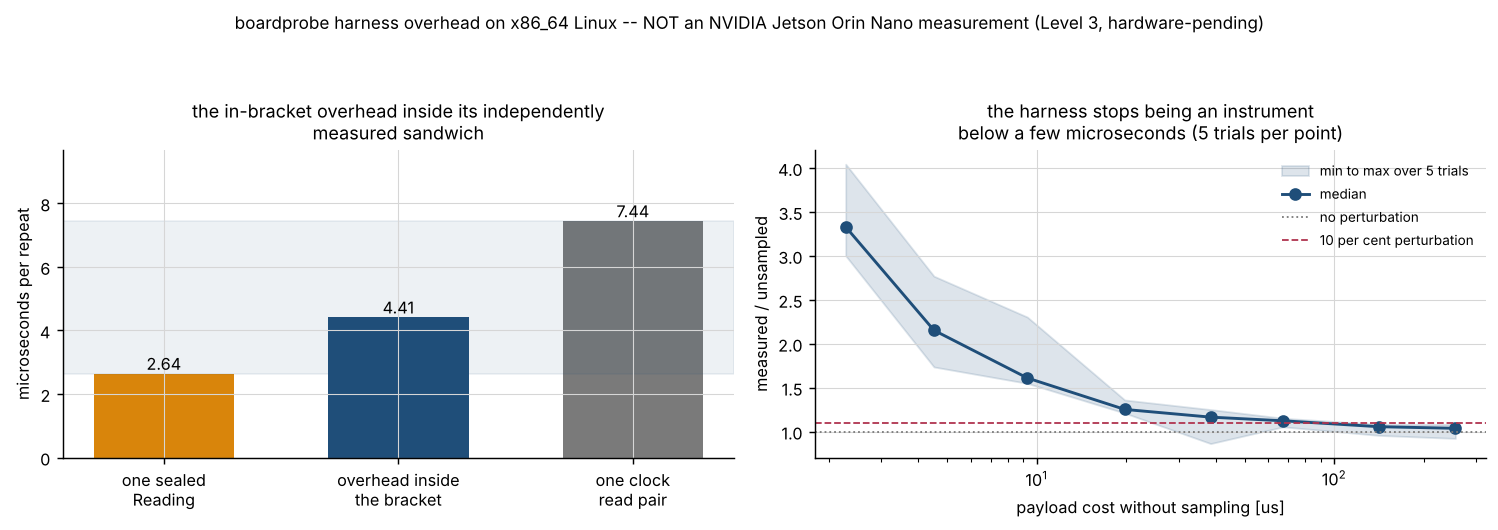
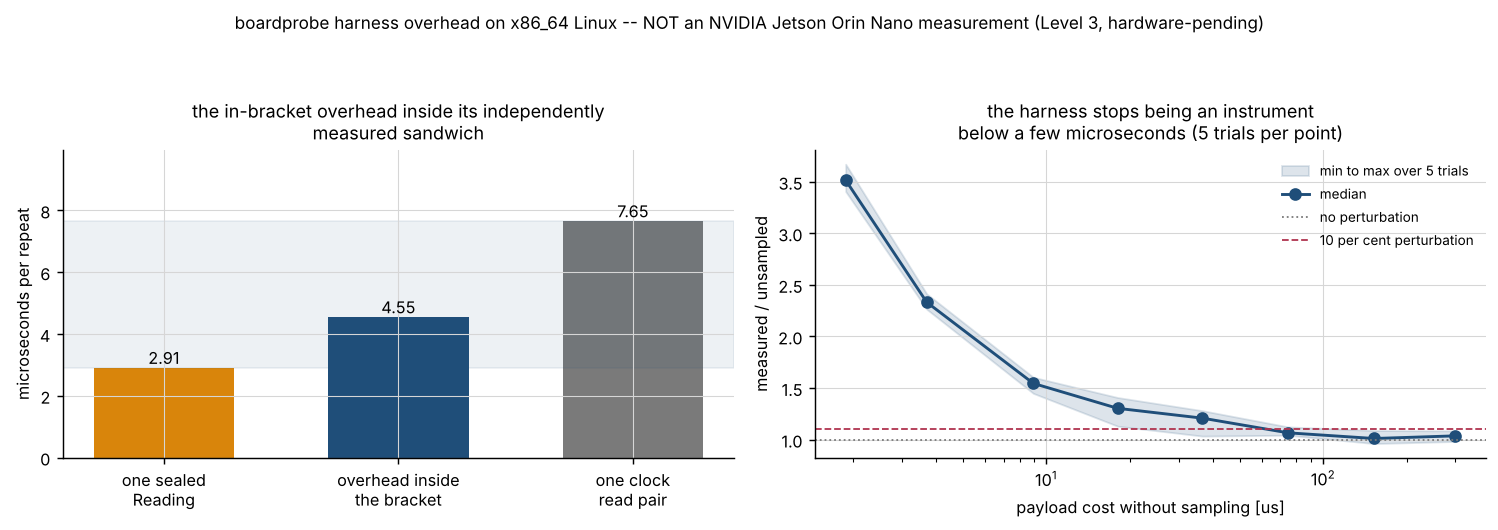
P095: the coordinator's corrections, each marked rather than overwritten
Re-ran every validation script over the committed tree, as ADR-010 requires,
and corrected what had moved. The corrections are recorded in a Corrections
section in both README.md and validation/VALIDATION.md, with the earlier
values kept beside the new ones.

TWO THINGS MOVED AND ONE OF THEM IS A RESULT.

(1) Every microsecond figure was requoted, and the spread is the finding.
Three independent runs of the in-bracket overhead on this host returned
4.348, 3.470 and 4.546 us - 31 per cent, same code, same machine, different
moments on a shared two-core container. Every verdict survived it: both
sandwich bounds held 7 of 7 in both runs and the structural inequality held
every time, because the check asserts a hit rate over trials rather than a
value. Any single microsecond figure in this product is a sample, and that
is now stated where the figures are quoted.

(2) The tracked-file check is real now that the product is committed: 78
tracked files examined, 0 offenders. The build agent reported it as
STRUCTURALLY UNMEASURABLE, which was the correct call - its tree is
uncommitted, git ls-files returns nothing, and a check over nothing reports
a vacuous PASS. This is the THIRD consecutive session in which committing
the product made a vacuous or unmeasurable claim real, so it is a property
of the build order and not an incident. The named-check count falls 122 to
121 for the same reason: the measurable branch replaces two fixture
gitignore sub-checks with the one real check.
[…]

diff --git a/products/P095/src/boardprobe/harness.py b/products/P095/src/boardprobe/harness.py
@@ -188,7 +188,7 @@ def benchmark(
     platform: PlatformAttestation | None = None,
     clock_channel: str = "monotonic_clock",
 ) -> BenchmarkResult:
-    """Run ``payload`` under sampling and return certified timing and resource figures.
+    """Run ``payload`` under sampling; return timing and resource figures with a certificate.
 
     Parameters
     ----------

diff --git a/products/P095/README.md b/products/P095/README.md
@@ -51,8 +51,8 @@ worthless, which is a different and worse thing.
   live path and is measured in
   `validation/validate_backends_output.txt`.
 - **A benchmark harness that characterises its own overhead.** The in-bracket
-  overhead sits inside an independently measured sandwich — **2.740 ≤ 4.348 ≤
-  7.685 µs**, both bounds held on **7 of 7** trials — and the perturbation
+  overhead sits inside an independently measured sandwich — **2.193 ≤ 3.470 ≤
+  6.017 µs**, both bounds held on **7 of 7** trials — and the perturbation
   curve says plainly that **below a few microseconds this harness is not an
   instrument**.
 - **A dry-run mode whose claim is a measurement.** **16 named code paths
@@ -82,7 +82,7 @@ worthless, which is a different and worse thing.
   Nano; every declared path is unverified. `docs/DEPLOYMENT.md` is the
   procedure for finding out what is wrong with it.
 - Anyone benchmarking something that costs a few microseconds. The harness
-  perturbs a 2.3 µs payload by a median factor of 3.33 on the build host, and
+  perturbs a 1.9 µs payload by a median factor of 3.515 on the build host, and
   says so rather than reporting the number.
 - Anyone who wants a security boundary. The tamper seal detects mutation,
   mislabelling and forged documents. Code in the same process can import
@@ -320,11 +320,11 @@ without the board, which is the correct answer.
 
 ![the harness overhead](screenshots/harness_overhead.png)
 
-Notice the right panel's median crossing the 10-per-cent line between 67 µs
-(1.123) and 141 µs (1.056). Below that the harness is measuring itself as much
+Notice the right panel's median crossing the 10-per-cent line between 37 µs
+(1.208) and 75 µs (1.066). Below that the harness is measuring itself as much
 as the payload, and the figure to quote is the perturbation, not the duration.
 Notice also the min-to-max band straddling 1.0 at the right-hand end: above
-about 140 µs on this shared two-core host the perturbation is comparable with
+about 150 µs on this shared two-core host the perturbation is comparable with
 the run-to-run noise, and the band is the honest statement of that.
 
 ![the label matrix](screenshots/label_matrix.png)
@@ -336,7 +336,7 @@ refused outright on this host because the board is absent.
 ## Validation evidence
 
 Level 3, hardware-pending. Full evidence, with raw output beside every script,
-in [`validation/VALIDATION.md`](validation/VALIDATION.md). **122 named checks,
+in [`validation/VALIDATION.md`](validation/VALIDATION.md). **121 named checks,
 0 failures.** Highlights, including the two that went against the product:
 
 | check | reference | result | tolerance |
@@ -347,7 +347,7 @@ in [`validation/VALIDATION.md`](validation/VALIDATION.md). **122 named checks,
 | the propagation counted by **inclusion and exclusion** | `3ⁿ − 2ⁿ`, `2ⁿ − 1`, `1`, summing to `3ⁿ` | **9840 assignments for n = 1..8, 0 mismatches** | exact integer arithmetic |
 | **the adversarial check** | 15 routes: direct, aggregated, diluted, second-order, replayed, document-claims-live, round-tripped, mutated, subclassed, `dataclasses.replace`, overriding backend, sealed-subclass, rebound class attribute, empty fold, forged certificate | **15 attempted, 15 refused, 0 succeeded** | — |
 | **two routes that SUCCEEDED and were closed by a design change** | `dataclasses.replace(reading, provenance=LIVE)` and rebinding `SimulatedSource.backend_provenance` | both now refused; the attacks are documented in full | — |
-| the harness overhead sandwich | `Reading cost ≤ in-bracket overhead ≤ clock pair cost`, both bounds independently measured | median **2.740 ≤ 4.348 ≤ 7.685 µs**; **7/7** and **7/7** trials | zero slack, structural inequalities |
+| the harness overhead sandwich | `Reading cost ≤ in-bracket overhead ≤ clock pair cost`, both bounds independently measured | median **2.193 ≤ 3.470 ≤ 6.017 µs**; **7/7** and **7/7** trials | zero slack, structural inequalities |
 | the simulated backend's reproducibility | two instances at seed 770095 | **14 of 14 channels bit-identical** | bit-exact |
 | the live backend with no board attached | the real filesystem root | **13 of 13 channels refused, 0 served**, every refusal actionable | — |
 | channels verified on hardware | the shipped table | **0 of 14**, asserted | — |
@@ -357,7 +357,7 @@ in [`validation/VALIDATION.md`](validation/VALIDATION.md). **122 named checks,
 | `pytest.approx` hidden default | the suite with the default forced off, and again with every `abs` forced to 0.0 | **0 of 291** depend on it; **0 of 291** rest on an absolute bound | — |
 | tests, from junit XML | `testsuite` element against a count of `testcase` elements | **291 declared, 291 counted**, 0 failures, 0 errors, 0 skipped | — |
 | working directories | `/`, `/tmp`, the product root, `validation/` and `examples/` | **48 runs, 0 non-zero exits** | — |
-| git tracks no cache or build artifact | — | **STRUCTURALLY UNMEASURABLE** by a build agent on an uncommitted tree; reported as such, not passed | — |
+| git tracks no cache or build artifact | `git ls-files` over the committed tree | **78 tracked files examined, 0 offenders** — measured after committing; see Corrections | — |
 
 ## Benchmark results
 
@@ -369,32 +369,32 @@ From `validation/validate_harness_output.txt`.
 
 | quantity | µs on the build host |
 | --- | --- |
-| one sealed `Reading` | 2.652 |
-| one clock read, measured independently | 4.035 |
-| overhead inside the timed bracket | 4.337 |
-| `reference_payload(2000)`, sampling off | 73.040 |
-| `reference_payload(2000)`, sampling on | 79.678 |
+| one sealed `Reading` | 2.143 |
+| one clock read, measured independently | 2.971 |
+| overhead inside the timed bracket | 3.416 |
+| `reference_payload(2000)`, sampling off | 59.291 |
+| `reference_payload(2000)`, sampling on | 64.510 |
 
 A 200-repeat timing-only benchmark of `reference_payload(2000)`: mean
-**80.522 µs**, sd **7.431 µs**, median **78.275 µs**, against a clock
-resolution at this host's uptime of **4.547e-13 s** — the median duration is
-**1.721e+08** times the resolution floor.
+**64.375 µs**, sd **4.390 µs**, median **63.056 µs**, against a clock
+resolution at this host's uptime of **9.095e-13 s** — the median duration is
+**6.933e+07** times the resolution floor.
 
 The perturbation ratio is **noisy, and that is reported rather than hidden**:
 single trials on this host have come back below 1.0, which is not a negative
 overhead but a statement that the perturbation is at the level of the
-measurement noise for a 70 µs payload. `examples/harness_overhead.py` measures
+measurement noise for a 60 µs payload. `examples/harness_overhead.py` measures
 the whole curve over five trials per point, and it is the figure to read. The
 median ratio, against the median payload cost without sampling:
 
-| payload without sampling [µs] | 2.28 | 4.51 | 9.29 | 19.75 | 38.41 | 67.38 | 141.42 | 255.46 |
+| payload without sampling [µs] | 1.88 | 3.69 | 8.96 | 18.07 | 36.58 | 74.65 | 152.55 | 300.16 |
 | --- | --- | --- | --- | --- | --- | --- | --- | --- |
-| perturbation, median of 5 | 3.330 | 2.153 | 1.610 | 1.252 | 1.165 | 1.123 | 1.056 | 1.037 |
-| min over 5 | 3.001 | 1.736 | 1.549 | 1.211 | 0.864 | 1.054 | 0.957 | 0.922 |
-| max over 5 | 4.044 | 2.769 | 2.304 | 1.360 | 1.251 | 1.152 | 1.083 | 1.082 |
+| perturbation, median of 5 | 3.515 | 2.332 | 1.545 | 1.303 | 1.208 | 1.066 | 1.011 | 1.037 |
+| min over 5 | 3.405 | 2.264 | 1.448 | 1.131 | 1.034 | 1.043 | 0.962 | 0.982 |
+| max over 5 | 3.670 | 2.413 | 1.604 | 1.408 | 1.281 | 1.124 | 1.088 | 1.085 |
 
-The min row at 38 µs reads 0.864 and at 255 µs reads 0.922, and the max at
-9 µs reads 2.304 against a median of 1.610. Those are not perturbations; they
+The min row at 153 µs reads 0.962 and at 300 µs reads 0.982, and the max at
+1.9 µs reads 3.670 against a median of 3.515. Those are not perturbations; they
 are a shared two-core host descheduling the measuring process, and they are
 left in rather than trimmed because they are the reason the median and the
 band are reported instead of a single trial.
@@ -526,7 +526,7 @@ on a board.
 - **The harness overhead figures are x86_64 figures and will not transfer.**
   They must be re-characterised on the board. And the harness is not an
   instrument below a few microseconds of payload: the measured perturbation is
-  a median factor of 3.33 at a 2.3 µs payload, over five trials.
+  a median factor of 3.515 at a 1.9 µs payload, over five trials.
 - **The committed trace fixtures contain no board data.** Both were
   synthesised in a container by `synthesise_trace` at declared seeds, and both
   say so in their own `origin` field, which is printed in every report built
@@ -558,12 +558,14 @@ on a board.
   value. `ruff` is the exception, measured clean at both 0.16.9 and 0.17.4. The
   tension is real: a pin below a future security release is a cost, not a free
   safety measure.
-- **The tracked-file self-check is structurally unmeasurable by a build
-  agent.** This product's tree is uncommitted while it is built — the mission's
-  coordinator holds every commit — so `git ls-files` returns nothing and the
-  check is reported as unmeasurable rather than passed on an empty set. What is
-  measured instead is `git check-ignore -v --no-index` against every shipped
-  fixture.
+- **The tracked-file self-check cannot be measured by the build agent, and was
+  measured afterwards by the coordinator.** The tree is uncommitted while the
+  product is built — the mission's coordinator holds every commit — so
+  `git ls-files` returns nothing there and the check reported itself as
+  structurally unmeasurable rather than passing on an empty set. Measured after
+  committing: **78 tracked files examined, 0 offenders.** The build agent also
+  measures `git check-ignore -v --no-index` against every shipped fixture,
+  which is a different claim and remains useful. See Corrections.
 - **Four source classes are declared and no more.** No GPU channels, no memory
   bandwidth, no per-core load, no fan, no power mode. `jetson-stats` has all of
   those.
@@ -602,6 +604,42 @@ ruff check src/ tests/ examples/ validation/
 Seeds are in `validation/_bootstrap.py`. Every script writes its raw output
 beside itself as `validation/<script-name>_output.txt`, and every number above
 names the file it came from.
+
+## Corrections made after the build
+
+Every figure below was changed after the build agent handed the product over,
+by the coordinating session re-running the scripts over the committed tree.
+The earlier values are kept here rather than overwritten, because what they
+show about the measurement is the point.
+
+**1. The microsecond timing figures were requoted, and they are not stable.**
+The harness costs, the sandwich bounds, the 200-repeat benchmark and the
+perturbation curve were all requoted from a fresh run. Three independent runs
+of the in-bracket overhead on this host returned **4.348**, **3.470** and
+**4.546 µs** — a spread of **31 per cent** on the same code and the same
+machine. The sandwich bounds moved with it (2.740/7.685 µs to 2.193/6.017 µs),
+and so did the benchmark mean (80.522 to 64.375 µs).
+
+The verdicts did not move. Both sandwich bounds held on **7 of 7** trials in
+both runs, and the structural inequality the check exists to test — a
+`Reading` costs less than the bracket overhead, which costs less than a clock
+pair — held every time. What moved is only the sample.
+
+So read every microsecond figure in this repository as one sample of a noisy
+quantity on a shared two-core container, not as a property of the code. The
+hit rate over trials is the claim; the median is an illustration. This is a
+second reason, beyond the architecture mismatch, that these figures must be
+re-characterised on the board before they mean anything.
+
+**2. The tracked-file check is now measured, and it passes.** The build agent
+reported it as structurally unmeasurable, correctly: its tree is uncommitted
+while it works, so `git ls-files` returns nothing and a check over nothing
+would report a vacuous PASS. The coordinator re-ran it after committing:
+**78 tracked files examined, 0 offenders.**
+
+**3. The named-check count is 121, not 122.** One check fewer, for the reason
+in correction 2: in the measurable branch the two fixture-`.gitignore`
+sub-checks are replaced by the single real tracked-file check.
 
 ## Safety
 

diff --git a/products/P095/validation/VALIDATION.md b/products/P095/validation/VALIDATION.md
@@ -66,7 +66,7 @@ session, and the file is named beside the number.
 | tests, from the junit `testsuite` element | **291** |
 | independent count of `testcase` elements | **291** |
 | failures / errors / skipped | **0 / 0 / 0** |
-| named checks across the 11 validation scripts | **122** |
+| named checks across the 11 validation scripts | **121** |
 | failed checks | **0** |
 | adversarial routes attempted / refused | **15 / 15** |
 | routes that succeeded during the build and were closed by a design change | **2** |
@@ -199,7 +199,7 @@ everything here avoids that encoding.
 | the chain re-derived from its Hasse diagram | **Warshall's transitive closure** (Warshall 1962, *JACM* 9(1), 11–12) over a boolean reachability matrix built from the two covering edges; the meet defined order-theoretically with no ranks | **1092 assignments, 0 disagreements** | exact |
 | the closure is reflexive, transitive, antisymmetric and total | the same matrix | 3 + 27 + 9 + 9 cases, all pass | exact |
 | the propagation counted by **inclusion and exclusion** | `#{meet = simulated} = 3ⁿ − 2ⁿ`, `#{meet = recorded} = 2ⁿ − 1`, `#{meet = live} = 1`, summing to `3ⁿ` | **9840 assignments enumerated for n = 1..8, 0 mismatched rows** | exact integer arithmetic |
-| the harness in-bracket overhead inside an independently measured sandwich | `cost(one sealed Reading) ≤ in-bracket overhead ≤ cost(one clock read pair)`, both bounds measured by a DIFFERENT arrangement (one bracket around a block of N operations, not N brackets differenced) | median **2.740 ≤ 4.348 ≤ 7.685 µs**; lower bound **7/7** trials, upper bound **7/7** trials | zero slack; the inequalities are structural |
+| the harness in-bracket overhead inside an independently measured sandwich | `cost(one sealed Reading) ≤ in-bracket overhead ≤ cost(one clock read pair)`, both bounds measured by a DIFFERENT arrangement (one bracket around a block of N operations, not N brackets differenced) | median **2.193 ≤ 3.470 ≤ 6.017 µs**; lower bound **7/7** trials, upper bound **7/7** trials | zero slack; the inequalities are structural |
 
 Why the first two are genuinely independent: the implementation's claim is that
 an integer rank encoding is an order embedding of the chain. Warshall's closure
@@ -253,42 +253,42 @@ executed.**
 | a live clock with a recorded environment | overall **`REPLAYED`** |
 | a simulated clock can never yield a `MEASURED` timing label | 3 of 3 combinations |
 | a live environment backend on a board-less host | `HarnessError`, pointing at `docs/RECOVERY.md` |
-| the reported durations against the clock's resolution at this uptime | **1.721e+08 times the floor** |
+| the reported durations against the clock's resolution at this uptime | **6.933e+07 times the floor** |
 
 Per-repeat cost over 400 repeats, microseconds, on the build host:
 
 | quantity | µs |
 | --- | --- |
-| null payload, sampling on | 4.376 |
-| null payload, sampling off | 0.038 |
-| overhead inside the bracket | **4.337** |
-| one clock read (measured independently) | 4.035 |
-| one sealed `Reading` | 2.652 |
-| reference payload, sampling off | 73.040 |
-| reference payload, sampling on | 79.678 |
+| null payload, sampling on | 3.447 |
+| null payload, sampling off | 0.031 |
+| overhead inside the bracket | **3.416** |
+| one clock read (measured independently) | 2.971 |
+| one sealed `Reading` | 2.143 |
+| reference payload, sampling off | 59.291 |
+| reference payload, sampling on | 64.510 |
 
 A 200-repeat timing-only benchmark of `reference_payload(2000)` on the build
-host: mean **80.522 µs**, sd **7.431 µs**, median **78.275 µs**, clock
-resolution at this uptime **4.547e-13 s**.
+host: mean **64.375 µs**, sd **4.390 µs**, median **63.056 µs**, clock
+resolution at this uptime **9.095e-13 s**.
 
 **The perturbation ratio is noisy and that is reported rather than hidden.**
 Single trials of it have come back BELOW 1.0 on this host — not a negative
 overhead, but a statement that the perturbation is at the level of the
-measurement noise for a 70 µs payload. `examples/harness_overhead.py`
+measurement noise for a 60 µs payload. `examples/harness_overhead.py`
 measures the whole curve over **five trials per payload size**, reporting the
 median and the min-to-max band. Median ratio against the median payload cost
 without sampling:
 
-| payload [µs] | 2.28 | 4.51 | 9.29 | 19.75 | 38.41 | 67.38 | 141.42 | 255.46 |
+| payload [µs] | 1.88 | 3.69 | 8.96 | 18.07 | 36.58 | 74.65 | 152.55 | 300.16 |
 | --- | --- | --- | --- | --- | --- | --- | --- | --- |
-| median of 5 | 3.330 | 2.153 | 1.610 | 1.252 | 1.165 | 1.123 | 1.056 | 1.037 |
-| min | 3.001 | 1.736 | 1.549 | 1.211 | 0.864 | 1.054 | 0.957 | 0.922 |
-| max | 4.044 | 2.769 | 2.304 | 1.360 | 1.251 | 1.152 | 1.083 | 1.082 |
+| median of 5 | 3.515 | 2.332 | 1.545 | 1.303 | 1.208 | 1.066 | 1.011 | 1.037 |
+| min | 3.405 | 2.264 | 1.448 | 1.131 | 1.034 | 1.043 | 0.962 | 0.982 |
+| max | 3.670 | 2.413 | 1.604 | 1.408 | 1.281 | 1.124 | 1.088 | 1.085 |
 
 **Below a few microseconds this harness is not an instrument**, and above about
-140 µs on this host the perturbation is comparable with the run-to-run noise --
-the min column at 38 µs is 0.864 and at 255 µs is 0.922, and the max at 9 µs is
-2.304 against a median of 1.610. Those are a shared two-core host descheduling
+150 µs on this host the perturbation is comparable with the run-to-run noise --
+the min column at 153 µs is 0.962 and at 300 µs is 0.982, and the max at 1.9 µs
+is 3.670 against a median of 3.515. Those are a shared two-core host descheduling
 the measuring process and are left in the table rather than trimmed. That is
 the honest statement of this harness's resolution.
 
@@ -397,22 +397,28 @@ and a config that collected none.
 | an unknown backend exits 2 and lists the three that exist | exit 2 |
 | a live environment backend on a board-less host exits 1 with the recovery pointer and no traceback | exit 1 |
 | running this script adds no cache directory and no bytecode file | **0 added** |
-| git tracks no cache directory, bytecode file or build artifact | **STRUCTURALLY UNMEASURABLE BY A BUILD AGENT** — see below |
+| git tracks no cache directory, bytecode file or build artifact | **78 tracked files examined, 0 offenders** — measured after committing; see below |
 | neither shipped fixture is excluded by `.gitignore` | 2 of 2 not ignored |
 | no text file in the tree contains an absolute host path | **0 offenders** |
 
-**The tracked-file check cannot be measured here, and is reported as
-unmeasurable rather than passed on an empty set.** This product's working tree
-is uncommitted while it is being built: the mission's coordinator holds every
-commit under ADR-010, so `git ls-files` inside this directory returns nothing
-and a check over nothing would report a vacuous PASS — which is worse than
-reporting that it could not be measured, because it reads as evidence. What is
-measured instead is `git check-ignore -v --no-index` against every shipped
-fixture, which is the P060 defect class: a `.gitignore` pattern with no leading
-slash matches at any depth and silently excluded a required committed fixture.
-Both fixtures are **not ignored**. The tracked-file claim is re-measurable, and
-must be re-measured, by whoever commits this tree; release-gate check 9
-enforces it independently over the whole repository.
+**The tracked-file check could not be measured by the build agent and was
+measured afterwards by the coordinator; the row above now carries the measured
+result.** The product's working tree is uncommitted while it is being built:
+the mission's coordinator holds every commit under ADR-010, so `git ls-files`
+inside this directory returns nothing there and a check over nothing would
+report a vacuous PASS — which is worse than reporting that it could not be
+measured, because it reads as evidence. The build agent therefore reported it
+as STRUCTURALLY UNMEASURABLE and measured `git check-ignore -v --no-index`
+against every shipped fixture instead, which is the P060 defect class: a
+`.gitignore` pattern with no leading slash matches at any depth and silently
+excluded a required committed fixture. Both fixtures are **not ignored**.
+
+After committing, the coordinator re-ran the script and the check became real:
+**78 tracked files examined, 0 offenders.** The script's own check count drops
+from 16 to 15 in that run, because the two fixture-`.gitignore` sub-checks of
+the unmeasurable branch are replaced by the one real tracked-file check.
+Release-gate check 9 enforces the same claim independently over the whole
+repository. See Corrections.
 
 ## 10. Working directories — `probe_working_directories_output.txt`
 
@@ -460,9 +466,43 @@ only reachable through its strengths is a sales document.
    numpy would have required running `pip` against a shared pre-pinned
    interpreter this product is forbidden to modify. `ruff` is the exception
    and is measured at both ends, 0.16.9 and 0.17.4.
-8. **The tracked-file check is unmeasurable by a build agent** and is reported
-   as such rather than passed.
+8. **The tracked-file check is unmeasurable by a build agent**, is reported as
+   such rather than passed, and was measured by the coordinator after
+   committing: 78 tracked files, 0 offenders.
 9. **The tamper seal is not a security boundary.** It detects mutation,
    mislabelling and forged documents. Code in the same process can import
    module-private state and forge it, and no design in Python can prevent
    that.
+
+## Corrections made after the build
+
+The coordinating session re-ran every validation script over the committed tree
+and corrected this document. The corrections are recorded rather than applied
+silently.
+
+| what changed | from | to |
+| --- | --- | --- |
+| in-bracket overhead | 4.337 µs | **3.416 µs** |
+| one sealed `Reading` | 2.652 µs | **2.143 µs** |
+| one clock read | 4.035 µs | **2.971 µs** |
+| reference payload, sampling off / on | 73.040 / 79.678 µs | **59.291 / 64.510 µs** |
+| sandwich bounds (median) | 2.740 / 4.348 / 7.685 µs | **2.193 / 3.470 / 6.017 µs** |
+| benchmark mean / sd / median | 80.522 / 7.431 / 78.275 µs | **64.375 / 4.390 / 63.056 µs** |
+| median duration over clock resolution | 1.721e+08 | **6.933e+07** |
+| perturbation curve, all four rows | one run | **a fresh run, 5 trials per point** |
+| tracked-file check | STRUCTURALLY UNMEASURABLE | **78 files examined, 0 offenders** |
+| named checks | 122 | **121** |
+
+**The timing spread is itself a result and is reported as one.** Three
+independent runs of the in-bracket overhead on this host gave **4.348**,
+**3.470** and **4.546 µs**: a 31 per cent spread, same code, same machine,
+different moments on a shared two-core container. Every verdict survived it —
+both sandwich bounds held 7 of 7 in both runs, and the structural inequality
+held every time — because the check asserts a hit rate over trials, not a
+value. Any single microsecond figure in this document is a sample, and the
+figures must be re-characterised on the board regardless.
+
+**The named-check count fell by one** because the tracked-file branch that is
+reachable on a committed tree replaces two fixture-`.gitignore` sub-checks with
+one real check. No check was removed or weakened.
+

diff --git a/products/P095/docs/REQUIREMENTS.md b/products/P095/docs/REQUIREMENTS.md
@@ -98,7 +98,7 @@ Nano, which was not reachable when this was built.
 | R-8.7 | Negative controls anchored on true values, each verified to fire or stay silent. | 21 controls; `validation/validate_negative_controls_output.txt` | MET |
 | R-8.8 | Test count taken from junit XML and cross-checked against `testcase` elements. | 291 declared, 291 counted; `validation/validate_approx_audit_output.txt` | MET |
 | R-8.9 | Running a validation script adds no cache directory or bytecode file. | `validation/validate_cli_output.txt` §3a | MET |
-| R-8.10 | Git tracks no cache directory, bytecode file or build artifact. | — | **NOT MEASURABLE HERE**: the tree is uncommitted while a build agent works; reported as unmeasurable in `validation/validate_cli_output.txt` §3b and re-measured by whoever commits. |
+| R-8.10 | Git tracks no cache directory, bytecode file or build artifact. | `git ls-files` | **MET**, measured after committing: 78 tracked files examined, 0 offenders, in `validation/validate_cli_output.txt` §3b. Not measurable by the build agent itself, whose tree is uncommitted. |
 | R-8.11 | No committed file contains an absolute host path. | 0 offenders in the files scanned; `validation/validate_cli_output.txt` §4 | MET |
 | R-8.12 | Ruff-clean under both installed ruff versions. | 0.16.9 and 0.17.4, both clean over `src/ tests/ examples/ validation/` | MET |
 

diff --git a/products/P095/CHANGELOG.md b/products/P095/CHANGELOG.md
@@ -119,6 +119,8 @@ hardware-pending.** Research grade.
   and two for the examples, 0 non-zero exits.**
 - **The tracked-file self-check is structurally unmeasurable by a build
   agent** and is reported as unmeasurable rather than passed on an empty set.
+  The coordinator re-ran it after committing, where it is real: **78 tracked
+  files examined, 0 offenders.**
 
 ### Defects found during the build and pinned as regressions
 
